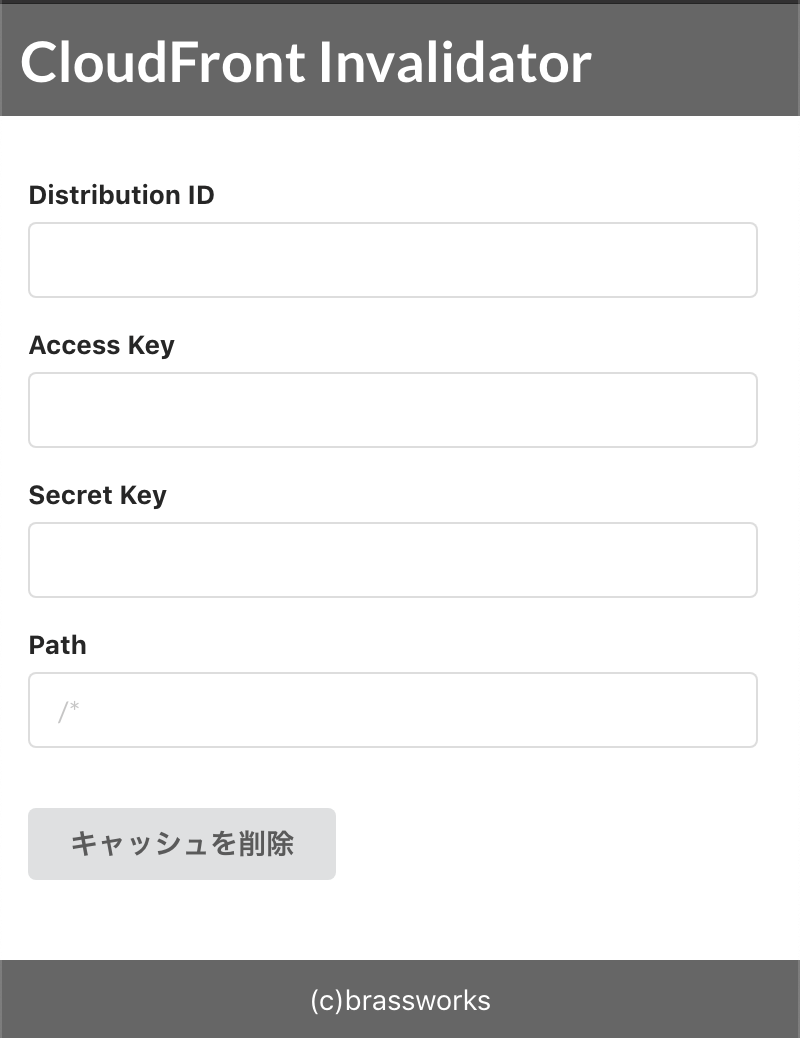
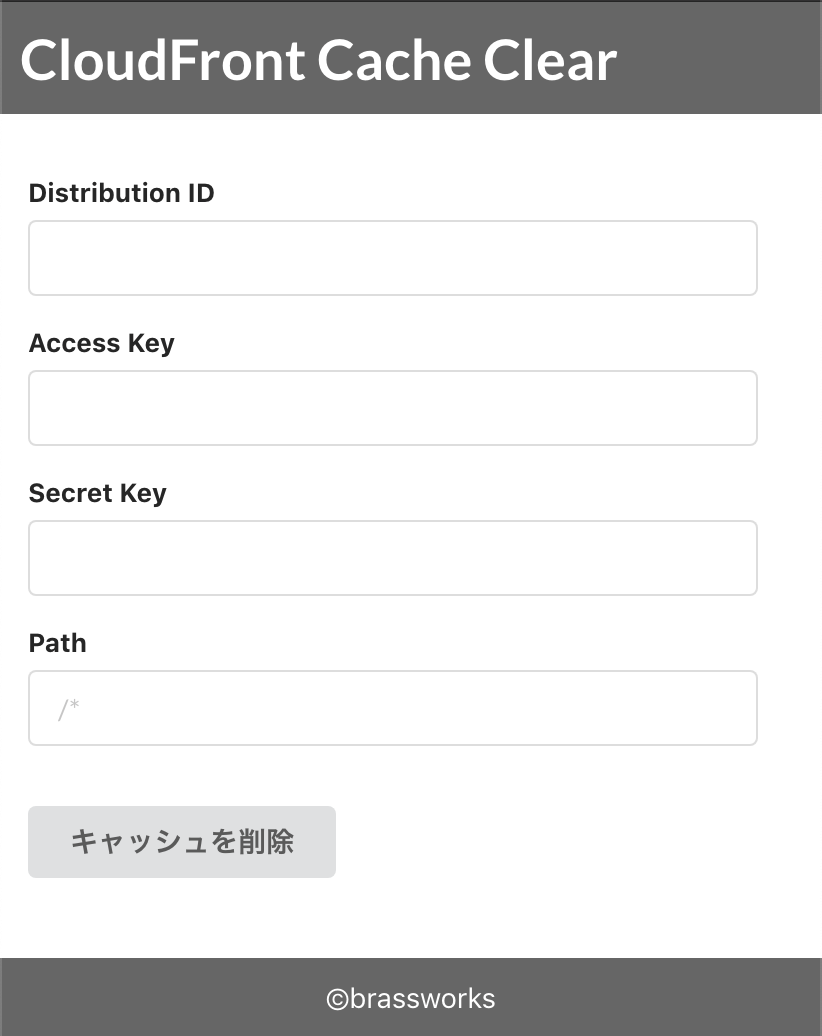
CloudFront Cache Clearにリネーム

diff --git a/src/components/SiteFooter.tsx b/src/components/SiteFooter.tsx
@@ -3,7 +3,7 @@ import * as React from "react";
 const SiteFooter: React.SFC<{}> = ({}) => {
   return (
     <div className="site-footer">
-      <div>(c)brassworks</div>
+      <div><a href="https://www.brassworks.jp/">&copy;brassworks</a></div>
     </div>
   )
 }

diff --git a/src/components/SiteHeader.tsx b/src/components/SiteHeader.tsx
@@ -3,7 +3,7 @@ import * as React from "react";
 const SiteHeader: React.SFC<{}> = ({}) => {
   return (
     <div className="site-header">
-      <h1>CloudFront Invalidator</h1>
+      <h1>CloudFront Cache Clear</h1>
     </div>
   )
 }

diff --git a/src/index.css b/src/index.css
@@ -62,3 +62,8 @@ code {
   width: 100%;
   text-align: center;
 }
+
+.site-footer a,
+.site-footer a:visited {
+  color: #fff;
+}
